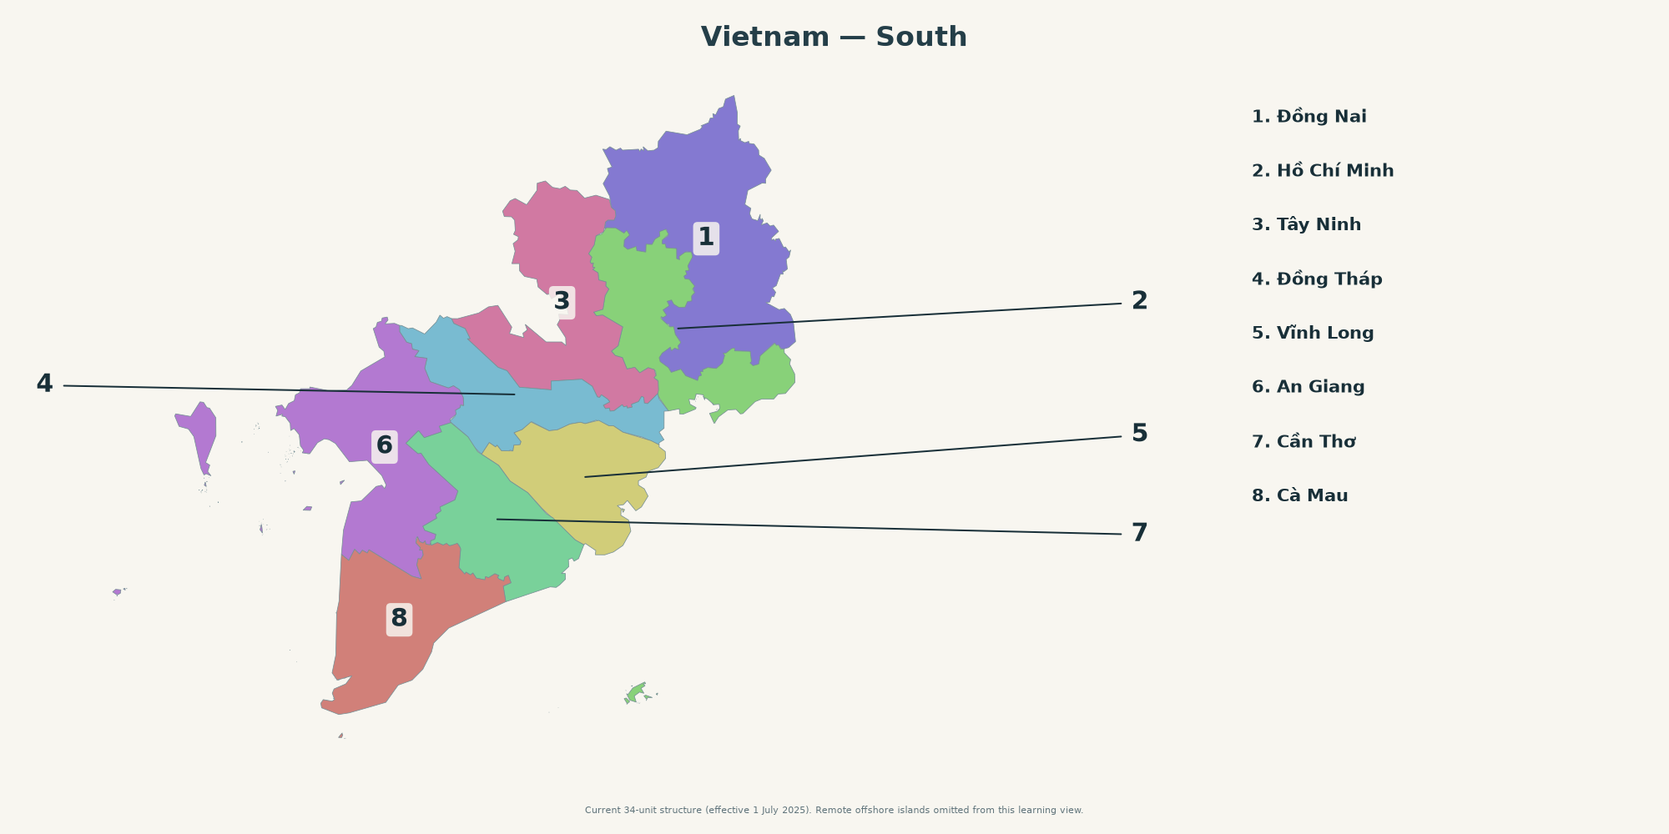
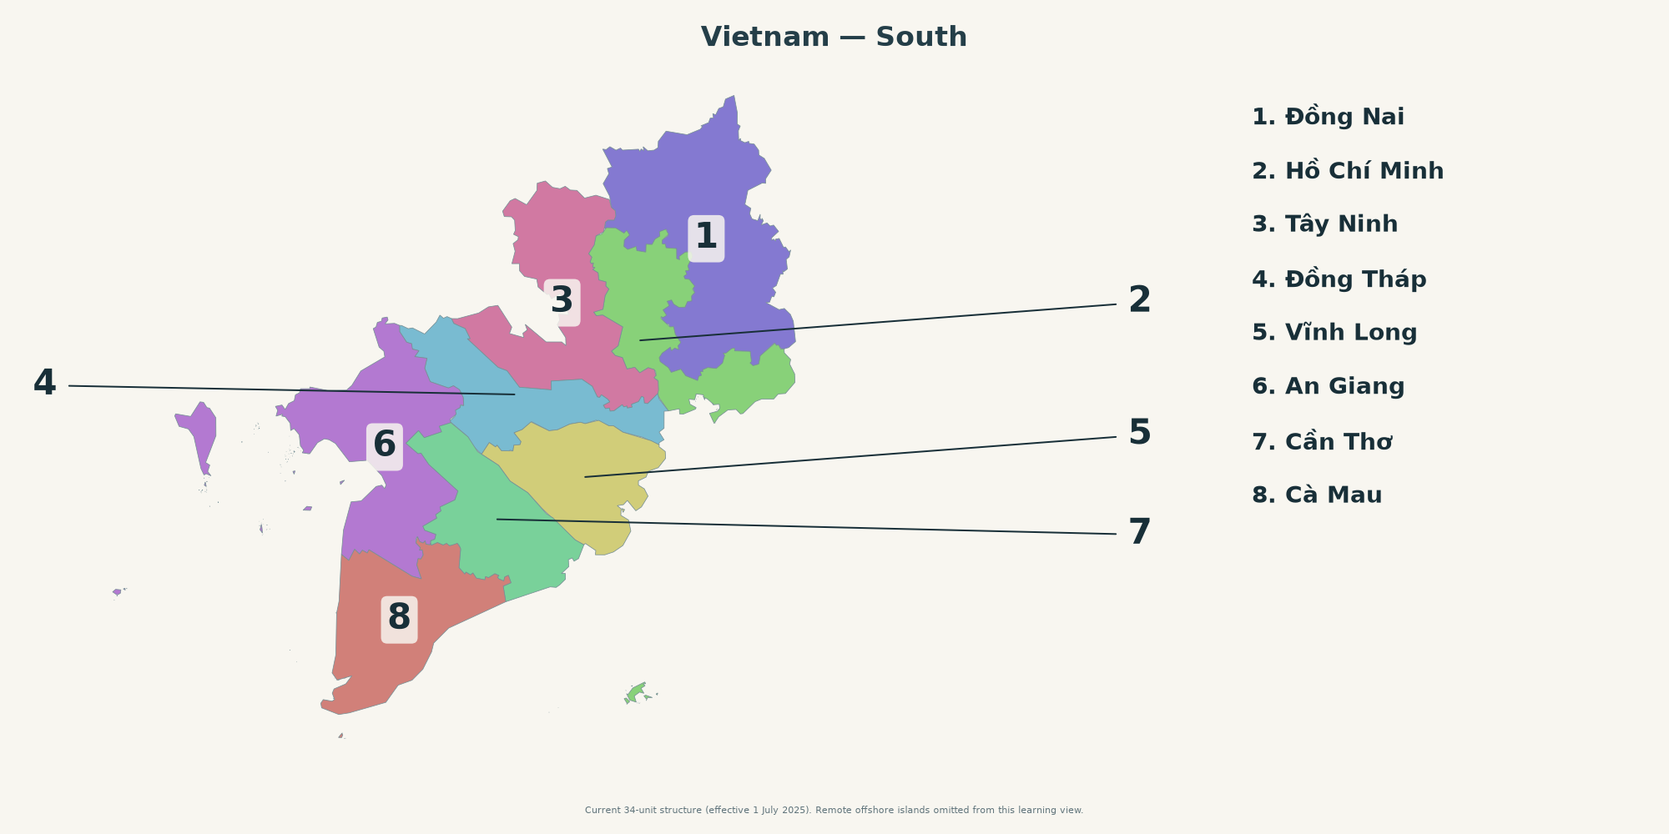
Add Vietnamese topography decks

diff --git a/packages/geography/continents-easy.ts b/packages/geography/continents-easy.ts
@@ -21,9 +21,9 @@ export const continentEasyCards = [
 export const continentEasyAnswerKeys = ["1", "2", "3", "4"] as const;
 export const continentEasyPackageId = "com.sleepymario.geography.continents-easy";
 export const vietnamRegionDecks = [
-  { slug: "north", label: "North", count: 15 },
-  { slug: "central", label: "Central", count: 11 },
-  { slug: "south", label: "South", count: 8 }
+  { slug: "north", label: "North", vietnamese: "Miền Bắc", count: 15 },
+  { slug: "central", label: "Central", vietnamese: "Miền Trung", count: 11 },
+  { slug: "south", label: "South", vietnamese: "Miền Nam", count: 8 }
 ] as const;
 export type VietnamRegionSlug = typeof vietnamRegionDecks[number]["slug"];
 export const koreaRegionDecks = [
@@ -109,9 +109,10 @@ function koreanTopicParticle(value: string): "은" | "는" {
   return final !== undefined && final >= 0xac00 && final <= 0xd7a3 && (final - 0xac00) % 28 !== 0 ? "은" : "는";
 }
 
-export async function runContinentsEasy(options: { progressDir?: string; mode?: "easy" | "hard"; dataset?: "japan" | "japan-regions" | "vietnam" | "korea" | "netherlands" | "germany" | CountryDivisionDataset; region?: JapanRegionSlug; vietnamRegion?: VietnamRegionSlug; koreaRegion?: KoreaRegionSlug; nameScript?: "kanji" | "hangul" } = {}): Promise<void> {
+export async function runContinentsEasy(options: { progressDir?: string; mode?: "easy" | "hard"; dataset?: "japan" | "japan-regions" | "vietnam" | "korea" | "netherlands" | "germany" | CountryDivisionDataset; region?: JapanRegionSlug; vietnamRegion?: VietnamRegionSlug; koreaRegion?: KoreaRegionSlug; nameScript?: "kanji" | "hangul" | "vietnamese" } = {}): Promise<void> {
   const kanji = options.nameScript === "kanji";
   const hangul = options.nameScript === "hangul";
+  const vietnameseLanguage = options.nameScript === "vietnamese";
   const japan = options.dataset === "japan";
   const regions = options.dataset === "japan-regions";
   const vietnam = options.dataset === "vietnam";
@@ -132,7 +133,9 @@ export async function runContinentsEasy(options: { progressDir?: string; mode?: 
     : netherlands ? `Provinces - All - ${hard ? "Hard" : "Easy"}`
     : germany ? `States - All - ${hard ? "Hard" : "Easy"}`
     : countryDivision !== undefined ? `${"scope" in countryDivision ? countryDivision.scope : `${countryDivision.deck} - All`} - ${hard ? "Hard" : "Easy"}`
-    : vietnam ? `Provincial-level Divisions - ${vietnamRegion?.label ?? "All"} - ${hard ? "Hard" : "Easy"}`
+    : vietnam ? vietnameseLanguage
+      ? `Đơn vị hành chính cấp tỉnh - ${vietnamRegion?.vietnamese ?? "Toàn quốc"} - ${hard ? "Nâng cao" : "Cơ bản"}`
+      : `Provincial-level Divisions - ${vietnamRegion?.label ?? "All"} - ${hard ? "Hard" : "Easy"}`
     : korea ? hangul
       ? `광역 행정 구역 - ${koreaRegion?.korean ?? "전체"} - ${hard ? "고급" : "초급"}`
       : `Provincial-level Divisions - ${koreaRegion?.label ?? "All"} - ${hard ? "Hard" : "Easy"}`
@@ -141,7 +144,7 @@ export async function runContinentsEasy(options: { progressDir?: string; mode?: 
     ? `com.sleepymario.${kanji ? "language.japanese" : "geography"}.japan-prefectures-${prefectureRegion.slug}-${hard ? "hard" : "easy"}`
     : regions
     ? `com.sleepymario.${kanji ? "language.japanese" : "geography"}.japan-regions-${hard ? "hard" : "easy"}`
-    : vietnam ? `com.sleepymario.geography.vietnam-provincial-divisions-${vietnamRegion === undefined ? "" : `${vietnamRegion.slug}-`}${hard ? "hard" : "easy"}`
+    : vietnam ? `com.sleepymario.${vietnameseLanguage ? "language.vietnamese" : "geography"}.vietnam-provincial-divisions-${vietnamRegion === undefined ? "" : `${vietnamRegion.slug}-`}${hard ? "hard" : "easy"}`
     : korea ? `com.sleepymario.${hangul ? "language.korean" : "geography"}.korea-provincial-divisions-${koreaRegion === undefined ? "" : `${koreaRegion.slug}-`}${hard ? "hard" : "easy"}`
     : netherlands ? `com.sleepymario.geography.netherlands-provinces-${hard ? "hard" : "easy"}`
     : germany ? `com.sleepymario.geography.germany-states-${hard ? "hard" : "easy"}`
@@ -164,7 +167,10 @@ export async function runContinentsEasy(options: { progressDir?: string; mode?: 
       })
     : vietnam
       ? (JSON.parse(await readFile(join(__dirname, "data", "vietnam-provinces", ...(vietnamRegion === undefined ? [] : ["regions", vietnamRegion.slug]), "provinces.json"), "utf8")) as { id: string; answer: string; kind: string }[])
-        .map(c => ({ ...c, prompt: "Which provincial-level division is highlighted?", explanation: `The highlighted division is ${c.answer}.` }))
+        .map(c => ({ ...c,
+          prompt: vietnameseLanguage ? "Đơn vị hành chính cấp tỉnh nào được tô màu?" : "Which provincial-level division is highlighted?",
+          explanation: vietnameseLanguage ? `Đơn vị hành chính cấp tỉnh được tô màu là ${c.answer}.` : `The highlighted division is ${c.answer}.`
+        }))
     : korea
       ? (JSON.parse(await readFile(join(__dirname, "data", "korea-provinces", ...(koreaRegion === undefined ? [] : ["regions", koreaRegion.slug]), "provinces.json"), "utf8")) as { id: string; answer: string; kind: string }[])
         .map(c => {
@@ -191,7 +197,7 @@ export async function runContinentsEasy(options: { progressDir?: string; mode?: 
   const namePool = cards.map(c => c.answer);
   if (administrativeMap && !hard) cards = [...cards, ...cards.map((c, i) => ({
     id: c.id.replace(/-highlight$/, "-locate"), answer: String(i + 1),
-    prompt: kanji ? `${c.answer}は何番ですか。` : hangul ? `${c.answer}${koreanTopicParticle(c.answer)} 몇 번입니까?` : `Which number marks ${c.answer}?`, explanation: kanji ? `${c.answer}は${i + 1}番です。` : hangul ? `${c.answer}${koreanTopicParticle(c.answer)} ${i + 1}번입니다.` : `${c.answer} is number ${i + 1}.`
+    prompt: kanji ? `${c.answer}は何番ですか。` : hangul ? `${c.answer}${koreanTopicParticle(c.answer)} 몇 번입니까?` : vietnameseLanguage ? `${c.answer} là số mấy?` : `Which number marks ${c.answer}?`, explanation: kanji ? `${c.answer}は${i + 1}番です。` : hangul ? `${c.answer}${koreanTopicParticle(c.answer)} ${i + 1}번입니다.` : vietnameseLanguage ? `${c.answer} là số ${i + 1}.` : `${c.answer} is number ${i + 1}.`
   }))];
   const progressDir = options.progressDir ?? join(resolveReviewProgressDirectory(), "wandering-the-world");
   await mkdir(progressDir, { recursive: true });
@@ -199,7 +205,7 @@ export async function runContinentsEasy(options: { progressDir?: string; mode?: 
     ? `${kanji ? "japanese" : "japan"}-prefectures-${prefectureRegion.slug}-${hard ? "hard" : "easy"}.lock`
     : regions
     ? `${kanji ? "japanese" : "japan"}-regions-${hard ? "hard" : "easy"}.lock`
-    : vietnam ? `vietnam-provincial-divisions-${vietnamRegion === undefined ? "" : `${vietnamRegion.slug}-`}${hard ? "hard" : "easy"}.lock`
+    : vietnam ? `${vietnameseLanguage ? "vietnamese" : "vietnam"}-provincial-divisions-${vietnamRegion === undefined ? "" : `${vietnamRegion.slug}-`}${hard ? "hard" : "easy"}.lock`
     : korea ? `${hangul ? "korean" : "korea"}-provincial-divisions-${koreaRegion === undefined ? "" : `${koreaRegion.slug}-`}${hard ? "hard" : "easy"}.lock`
     : netherlands ? `netherlands-provinces-${hard ? "hard" : "easy"}.lock`
     : germany ? `germany-states-${hard ? "hard" : "easy"}.lock`
@@ -272,6 +278,7 @@ export async function runContinentsEasy(options: { progressDir?: string; mode?: 
         : prefectureRegion !== undefined && directNumber ? `Enter the map number (1–${namePool.length}) and press Enter. Escape returns to the menu.`
         : regions && directNumber ? "Enter the map number (1–8) and press Enter. Escape returns to the menu."
         : japan && directNumber ? "Enter the map number (1–47) and press Enter. Escape returns to the menu."
+        : vietnam && vietnameseLanguage && directNumber ? `Nhập số trên bản đồ: 1–${namePool.length}\nEnter: xác nhận\nEscape: trở về trình đơn`
         : vietnam && directNumber ? `Enter the map number (1–${namePool.length}) and press Enter. Escape returns to the menu.`
         : korea && hangul && directNumber ? `지도 번호를 입력하세요: 1~${namePool.length}\nEnter: 확인\nEscape: 메뉴로 돌아가기`
         : korea && directNumber ? `Enter the map number (1–${namePool.length}) and press Enter. Escape returns to the menu.`
@@ -280,6 +287,7 @@ export async function runContinentsEasy(options: { progressDir?: string; mode?: 
         : countryDivision !== undefined && directNumber ? `Enter the map number (1–${namePool.length}) and press Enter. Escape returns to the menu.`
         : regions && hard ? (kanji ? "Type the region name in Japanese and press Enter. Escape returns to the menu." : "Type the romanized region name and press Enter. Escape returns to the menu.")
         : japan && hard ? (kanji ? "Type the prefecture name in kanji and press Enter. Escape returns to the menu." : "Type the romanized prefecture name and press Enter. Escape returns to the menu.")
+        : vietnam && vietnameseLanguage && hard ? "Nhập tên bằng tiếng Việt rồi nhấn Enter. Có thể bỏ dấu. Nhấn Escape để trở về trình đơn."
         : vietnam && hard ? "Type the Vietnamese name; diacritics are optional. Press Enter to answer. Escape returns to the menu."
         : korea && hangul && hard ? "광역 행정 구역의 이름을 한국어로 입력하고 Enter 키를 누르세요. Escape 키를 누르면 메뉴로 돌아갑니다."
         : korea && hard ? "Type the romanized division name and press Enter. Escape returns to the menu."
@@ -290,7 +298,7 @@ export async function runContinentsEasy(options: { progressDir?: string; mode?: 
       const stem = card.id.replace(/-highlight$/, "");
       const regionalPrefectureAsset = prefectureRegion === undefined ? undefined : join("japan-regions", "prefecture-decks", `${prefectureRegion.slug}`);
       const regionalPrefectureSplit = prefectureRegion === undefined ? undefined : japanRegionalPrefectureSplitDirectory(prefectureRegion.slug, kanji);
-      const vietnamAssetRoot = join("vietnam-provinces", ...(vietnamRegion === undefined ? [] : ["regions", vietnamRegion.slug]));
+      const vietnamAssetRoot = join("vietnam-provinces", ...(vietnameseLanguage ? ["language-vietnamese"] : []), ...(vietnamRegion === undefined ? [] : ["regions", vietnamRegion.slug]));
       const vietnamNumberedAsset = join(vietnamAssetRoot, vietnamRegion === undefined ? "vietnam-provinces-numbered.png" : "provinces-numbered.png");
       const vietnamNamedAsset = join(vietnamAssetRoot, vietnamRegion === undefined ? "vietnam-provinces-named.png" : "provinces-named.png");
       const koreaAssetRoot = join("korea-provinces", ...(hangul ? ["language-korean"] : []), ...(koreaRegion === undefined ? [] : ["regions", koreaRegion.slug]));

diff --git a/apps/cli/interactive-menu.ts b/apps/cli/interactive-menu.ts
@@ -1137,6 +1137,13 @@ function geographyReviewTargetForCommand(id: string): GeographyReviewTarget | un
       hard
     );
   }
+  if (id === `vietnamese-provincial-divisions-${hard ? "hard" : "easy"}`) {
+    return geographyReviewTarget(
+      `com.sleepymario.language.vietnamese.vietnam-provincial-divisions-${hard ? "hard" : "easy"}`,
+      loadGeographyCountryMetadata("vietnam-provinces").map(item => item.id),
+      hard
+    );
+  }
   const vietnamRegion = vietnamRegionDecks.find(candidate => id === `vietnam-provincial-divisions-${candidate.slug}-${hard ? "hard" : "easy"}`);
   if (vietnamRegion !== undefined) {
     return geographyReviewTarget(
@@ -1158,6 +1165,14 @@ function geographyReviewTargetForCommand(id: string): GeographyReviewTarget | un
     return geographyReviewTarget(
       `com.sleepymario.language.korean.korea-provincial-divisions-${koreanRegion.slug}-${hard ? "hard" : "easy"}`,
       loadGeographyCountryMetadata(`korea-provinces/regions/${koreanRegion.slug}`).map(item => item.id),
+      hard
+    );
+  }
+  const vietnameseRegion = vietnamRegionDecks.find(candidate => id === `vietnamese-provincial-divisions-${candidate.slug}-${hard ? "hard" : "easy"}`);
+  if (vietnameseRegion !== undefined) {
+    return geographyReviewTarget(
+      `com.sleepymario.language.vietnamese.vietnam-provincial-divisions-${vietnameseRegion.slug}-${hard ? "hard" : "easy"}`,
+      loadGeographyCountryMetadata(`vietnam-provinces/regions/${vietnameseRegion.slug}`).map(item => item.id),
       hard
     );
   }
@@ -2869,6 +2884,38 @@ export function languageSubmenuSkeleton(languages: LanguageTreeNode, archivedLan
                       previewText: mode === "easy"
                         ? `${region.count * 2} questions covering ${region.count} divisions in Korean.`
                         : `${region.count} highlighted divisions. Type each name in Korean.`
+                    })))
+                  ];
+                  return { ...deckType, children: [
+                    ...(current?.children ?? []).filter(node => !node.id.includes(":topography")),
+                    { id: `${deckType.id}:topography`, label: "Topography", kind: "category" as const, children: topographyChildren }
+                  ] };
+                }
+                if (language.packageId === "com.sleepymario.language.vietnamese" || language.moduleId === "com.sleepymario.language.vietnamese") {
+                  const current = keepNewGeneralDecks(deckType);
+                  const topographyChildren = [
+                    {
+                      id: `${deckType.id}:topography-main-vocabulary`, label: "Topography - Main Vocabulary", kind: "review-source" as const,
+                      packageId: "com.sleepymario.language.vietnamese.general.topography-main-vocabulary", packageVersion: "0.1.0", packageLabel: "Vietnamese", sourcePath: "cards.tsv", itemCount: 70,
+                      contentDataDir: join(__dirname, "../../../.local-content/vietnamese-topography")
+                    },
+                    ...(["easy", "hard"] as const).map(mode => ({
+                      id: `${deckType.id}:vietnamese-provincial-divisions-${mode}`,
+                      label: `Provincial-level Divisions - All - ${mode === "easy" ? "Easy" : "Hard"}`,
+                      kind: "command" as const,
+                      commandPath: ["geography", `vietnamese-provincial-divisions-${mode}`], commandArgs: [],
+                      previewText: mode === "easy"
+                        ? "68 questions covering Vietnam's 34 current provincial-level divisions, using Vietnamese names."
+                        : "34 highlighted provincial-level divisions. Type each name in Vietnamese."
+                    })),
+                    ...vietnamRegionDecks.flatMap(region => (["easy", "hard"] as const).map(mode => ({
+                      id: `${deckType.id}:vietnamese-provincial-divisions-${region.slug}-${mode}`,
+                      label: `Provincial-level Divisions - ${region.vietnamese} - ${mode === "easy" ? "Easy" : "Hard"}`,
+                      kind: "command" as const,
+                      commandPath: ["geography", `vietnamese-provincial-divisions-${region.slug}-${mode}`], commandArgs: [],
+                      previewText: mode === "easy"
+                        ? `${region.count * 2} questions covering ${region.count} divisions in Vietnamese.`
+                        : `${region.count} highlighted divisions. Type each name in Vietnamese.`
                     })))
                   ];
                   return { ...deckType, children: [

diff --git a/packages/core/content-package-generator.ts b/packages/core/content-package-generator.ts
@@ -1280,6 +1280,32 @@ const rawContentPackageGeneratorTargets: readonly ContentPackageGeneratorTarget[
     topicDeck: { id: "korean-general-topography-main-vocabulary", displayName: "Topography - Main Vocabulary", outputFile: "topography-main-vocabulary.json", unitStart: 1, unitEnd: 1 }
   },
   {
+    id: "vietnamese-general-topography-main-vocabulary",
+    explicitOnly: true,
+    packageId: "com.sleepymario.language.vietnamese.general.topography-main-vocabulary",
+    displayName: "Topography - Main Vocabulary",
+    description: "Bidirectional Vietnamese vocabulary used by the General Topography maps and exercises.",
+    contentType: "topic-review",
+    capabilities: ["topic-review"],
+    deckFamily: "general",
+    relatedPackageIds: ["com.sleepymario.language.vietnamese"],
+    contentSchemaVersion: "2.0.0",
+    deckVersion: "0.1.0",
+    artifactRevision: 2,
+    mediaPolicy: "none",
+    interactionProfile: defaultDeckInteractionProfile,
+    notesPolicy: "default",
+    packageVersion: "0.1.0",
+    sourcePath: "vietnamese-general/topography-main-vocabulary",
+    sourceRepository: "local-only:whacksmacker-decks-private",
+    languages: ["en", "vi"],
+    targetLanguage: "vi",
+    subjects: ["vietnamese", "general", "topography", "vocabulary"],
+    dependencies: [],
+    include: ["README.md", "cards.tsv"],
+    topicDeck: { id: "vietnamese-general-topography-main-vocabulary", displayName: "Topography - Main Vocabulary", outputFile: "topography-main-vocabulary.json", unitStart: 1, unitEnd: 1 }
+  },
+  {
     id: "japanese-custom-shokyu-nihongo-shusaku-i-vocabulary",
     explicitOnly: true,
     packageId: "local.user.decks.japanese-shokyu-nihongo-shusaku-i-vocabulary",

diff --git a/packages/geography/index.ts b/packages/geography/index.ts
@@ -59,6 +59,16 @@ export const geographyModule: DomainModule = {
       run: async () => { await runContinentsEasy({ dataset: "vietnam", vietnamRegion: region.slug, mode }); }
     });
     for (const mode of ["easy", "hard"] as const) context.cli.register({
+      path: ["geography", `vietnamese-provincial-divisions-${mode}`],
+      summary: `Vietnam provincial-level divisions in Vietnamese (${mode})`,
+      run: async () => { await runContinentsEasy({ dataset: "vietnam", mode, nameScript: "vietnamese" }); }
+    });
+    for (const region of vietnamRegionDecks) for (const mode of ["easy", "hard"] as const) context.cli.register({
+      path: ["geography", `vietnamese-provincial-divisions-${region.slug}-${mode}`],
+      summary: `Vietnam ${region.label} provincial-level divisions in Vietnamese (${mode})`,
+      run: async () => { await runContinentsEasy({ dataset: "vietnam", vietnamRegion: region.slug, mode, nameScript: "vietnamese" }); }
+    });
+    for (const mode of ["easy", "hard"] as const) context.cli.register({
       path: ["geography", `korea-provincial-divisions-${mode}`],
       summary: `Korea provincial-level divisions (${mode})`,
       run: async () => { await runContinentsEasy({ dataset: "korea", mode }); }

diff --git a/scripts/generate-vietnam-provincial-maps.py b/scripts/generate-vietnam-provincial-maps.py
@@ -57,6 +57,12 @@ label_callouts = {
     "Cần Thơ": (109.65, 9.65),
 }
 
+# A few compact metropolitan shapes need a deliberate point inside the region
+# so their leader line does not appear to stop at a neighbouring border.
+label_anchor_overrides = {
+    "Hồ Chí Minh": (106.62, 10.82),
+}
+
 def visible_parts(province, view_extent=extent):
     result = []
     for ring in province["polygons"]:
@@ -92,7 +98,8 @@ def subset_extent(subset):
 
 def draw_map(path: Path, target=None, labels=None, title="Vietnam — Provincial-level Divisions",
              subset=None, view_extent=extent, legend_columns=2, landscape=False,
-             direct_canvas=False):
+             direct_canvas=False, question_title="Which provincial-level division is highlighted?",
+             footer="Current 34-unit structure (effective 1 July 2025). Remote offshore islands omitted from this learning view."):
     displayed = provinces if subset is None else subset
     if direct_canvas:
         if landscape:
@@ -121,9 +128,11 @@ def draw_map(path: Path, target=None, labels=None, title="Vietnam — Provincial
         for ring in visible_parts(province, view_extent):
             ax.add_patch(Polygon(ring, closed=True, facecolor=fill, edgecolor=edge, linewidth=1.25 if selected else .45))
     if labels:
-        label_font_size = 17 if len(displayed) <= 15 else 14
+        label_font_size = 24 if len(displayed) <= 8 else 17 if len(displayed) <= 15 else 14
         for index, province in enumerate(displayed, 1):
             x, y = label_point(province, view_extent)
+            if len(displayed) <= 8:
+                x, y = label_anchor_overrides.get(province["name"], (x, y))
             if not (view_extent[0] <= x <= view_extent[1] and view_extent[2] <= y <= view_extent[3]):
                 continue
             if province["name"] in label_callouts:
@@ -140,7 +149,7 @@ def draw_map(path: Path, target=None, labels=None, title="Vietnam — Provincial
     if labels == "name":
         rows = (len(displayed) + legend_columns - 1) // legend_columns
         legend_x = .75 if landscape and legend_columns == 1 else .72 if legend_columns == 1 else .72
-        legend_font_size = 12 if len(displayed) <= 15 else 9
+        legend_font_size = 16 if len(displayed) <= 8 else 12 if len(displayed) <= 15 else 9
         for index, province in enumerate(displayed, 1):
             column = (index - 1) // rows
             row = (index - 1) % rows
@@ -149,7 +158,7 @@ def draw_map(path: Path, target=None, labels=None, title="Vietnam — Provincial
                      fontsize=legend_font_size, weight="bold", color="#182f38")
     title_font_size = 19 if len(displayed) <= 15 else 17
     fig.text(.5, .97, title, ha="center", va="top", fontsize=title_font_size, color="#243e48", weight="bold")
-    fig.text(.5, .025, "Current 34-unit structure (effective 1 July 2025). Remote offshore islands omitted from this learning view.",
+    fig.text(.5, .025, footer,
              ha="center", fontsize=6.5, color="#60747b")
     fig.savefig(path, dpi=125)
     plt.close(fig)
@@ -199,3 +208,44 @@ for region_slug, (region_label, region_provinces) in regions.items():
                  direct_canvas=True)
     (region_dir / "provinces.json").write_text(
         json.dumps(region_metadata, ensure_ascii=False, indent=2) + "\n", encoding="utf-8")
+
+# Lingoland Vietnamese reuses the validated geometry and label placement, with
+# only learner-facing artwork text localized. This keeps WtW and Lingoland maps
+# visually identical while preserving independent packages and progress.
+VI_DATA = DATA / "language-vietnamese"
+VI_FOOTER = "Cơ cấu 34 đơn vị hiện hành (có hiệu lực từ ngày 1 tháng 7 năm 2025). Không hiển thị các đảo xa bờ trong bản đồ học tập này."
+VI_QUESTION = "Đơn vị hành chính cấp tỉnh nào được tô màu?"
+VI_DATA.mkdir(parents=True, exist_ok=True)
+vi_split = VI_DATA / "split"
+vi_split.mkdir(parents=True, exist_ok=True)
+draw_map(vi_split / "reference.png", title="Việt Nam — Các đơn vị hành chính cấp tỉnh", direct_canvas=True, footer=VI_FOOTER)
+draw_map(VI_DATA / "vietnam-provinces-numbered.png", labels="number", title="Việt Nam — Các đơn vị hành chính cấp tỉnh", direct_canvas=True, footer=VI_FOOTER)
+draw_map(VI_DATA / "vietnam-provinces-named.png", labels="name", title="Việt Nam — Các đơn vị hành chính cấp tỉnh", direct_canvas=True, footer=VI_FOOTER)
+for province in provinces:
+    stem = slug(province["name"])
+    draw_map(vi_split / f"{stem}-question.png", target=province["id"], title=VI_QUESTION, direct_canvas=True, footer=VI_FOOTER)
+    draw_map(vi_split / f"{stem}-answer.png", target=province["id"], title=province["name"], direct_canvas=True, footer=VI_FOOTER)
+
+vi_region_labels = {"north": "Miền Bắc", "central": "Miền Trung", "south": "Miền Nam"}
+for region_slug, (_, region_provinces) in regions.items():
+    region_dir = VI_DATA / "regions" / region_slug
+    region_split = region_dir / "split"
+    region_split.mkdir(parents=True, exist_ok=True)
+    region_extent = subset_extent(region_provinces)
+    region_title = f"Việt Nam — {vi_region_labels[region_slug]}"
+    landscape = region_slug in {"north", "south"}
+    draw_map(region_split / "reference.png", title=region_title, subset=region_provinces,
+             view_extent=region_extent, landscape=landscape, direct_canvas=True, footer=VI_FOOTER)
+    draw_map(region_dir / "provinces-numbered.png", labels="number", title=region_title,
+             subset=region_provinces, view_extent=region_extent, landscape=landscape, direct_canvas=True, footer=VI_FOOTER)
+    draw_map(region_dir / "provinces-named.png", labels="name", title=region_title,
+             subset=region_provinces, view_extent=region_extent, legend_columns=1, landscape=landscape,
+             direct_canvas=True, footer=VI_FOOTER)
+    for province in region_provinces:
+        stem = slug(province["name"])
+        draw_map(region_split / f"{stem}-question.png", target=province["id"], title=VI_QUESTION,
+                 subset=region_provinces, view_extent=region_extent, landscape=landscape,
+                 direct_canvas=True, footer=VI_FOOTER)
+        draw_map(region_split / f"{stem}-answer.png", target=province["id"], title=province["name"],
+                 subset=region_provinces, view_extent=region_extent, landscape=landscape,
+                 direct_canvas=True, footer=VI_FOOTER)
